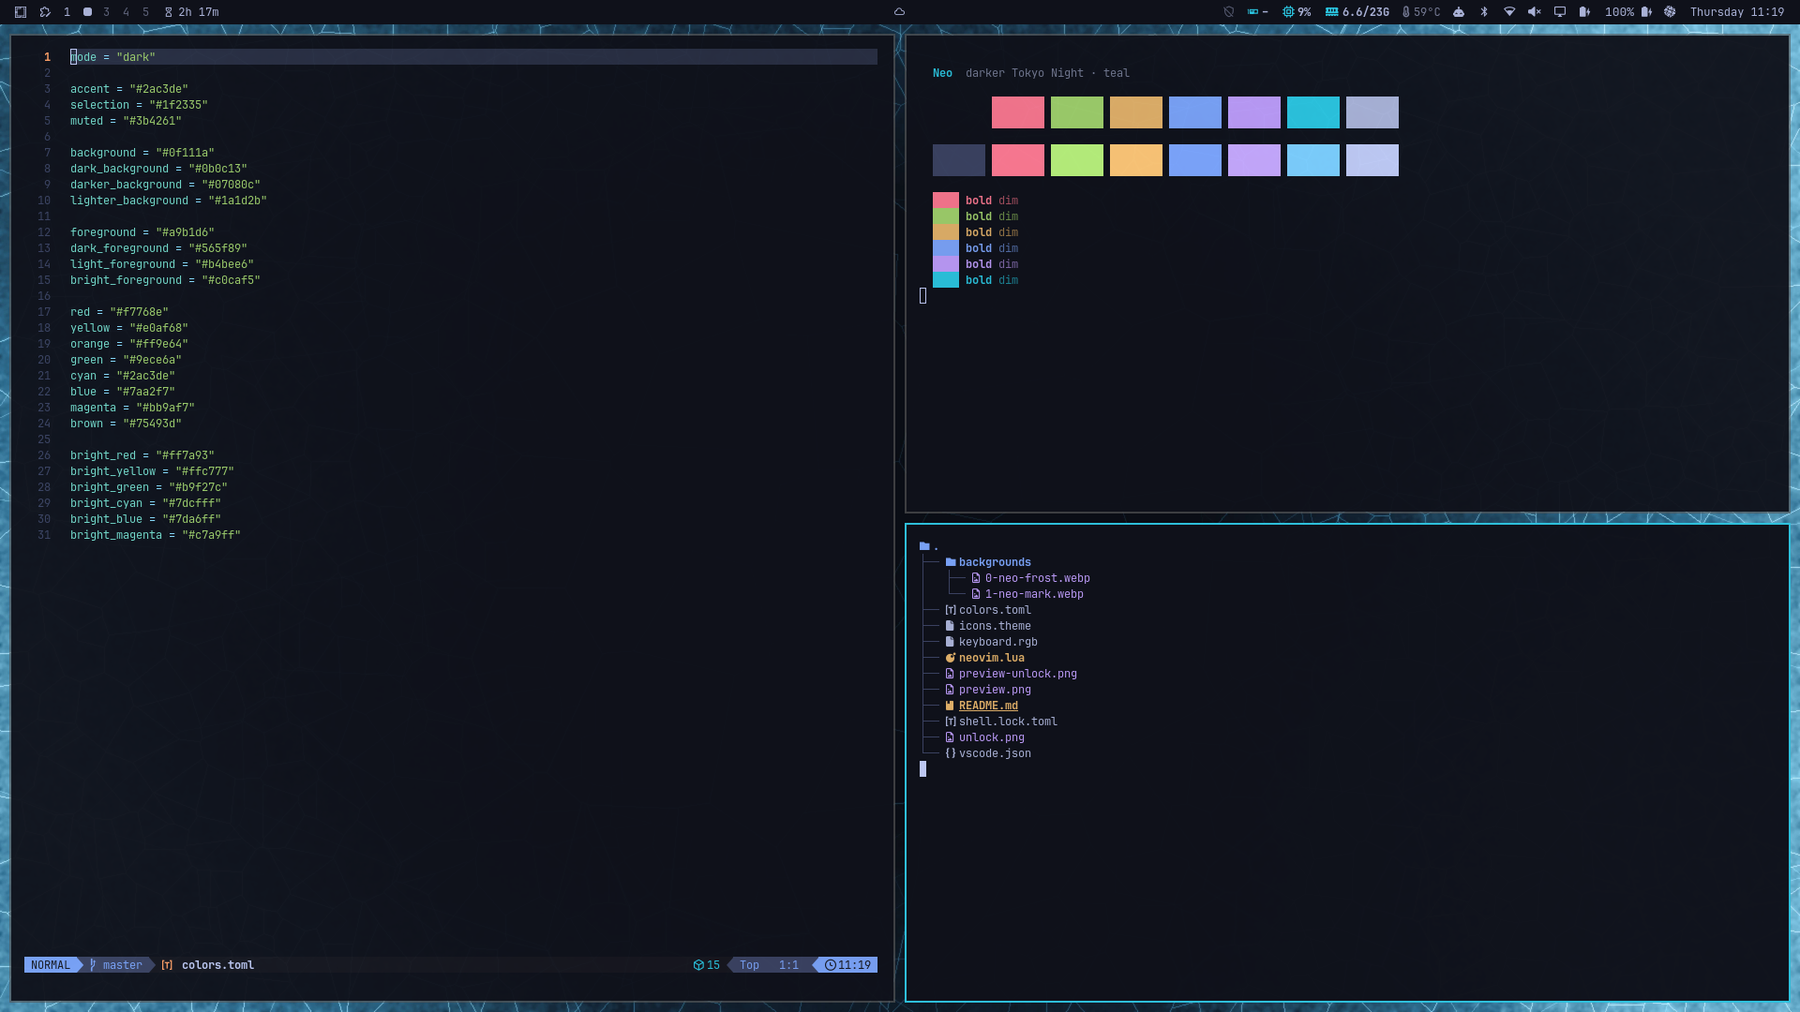
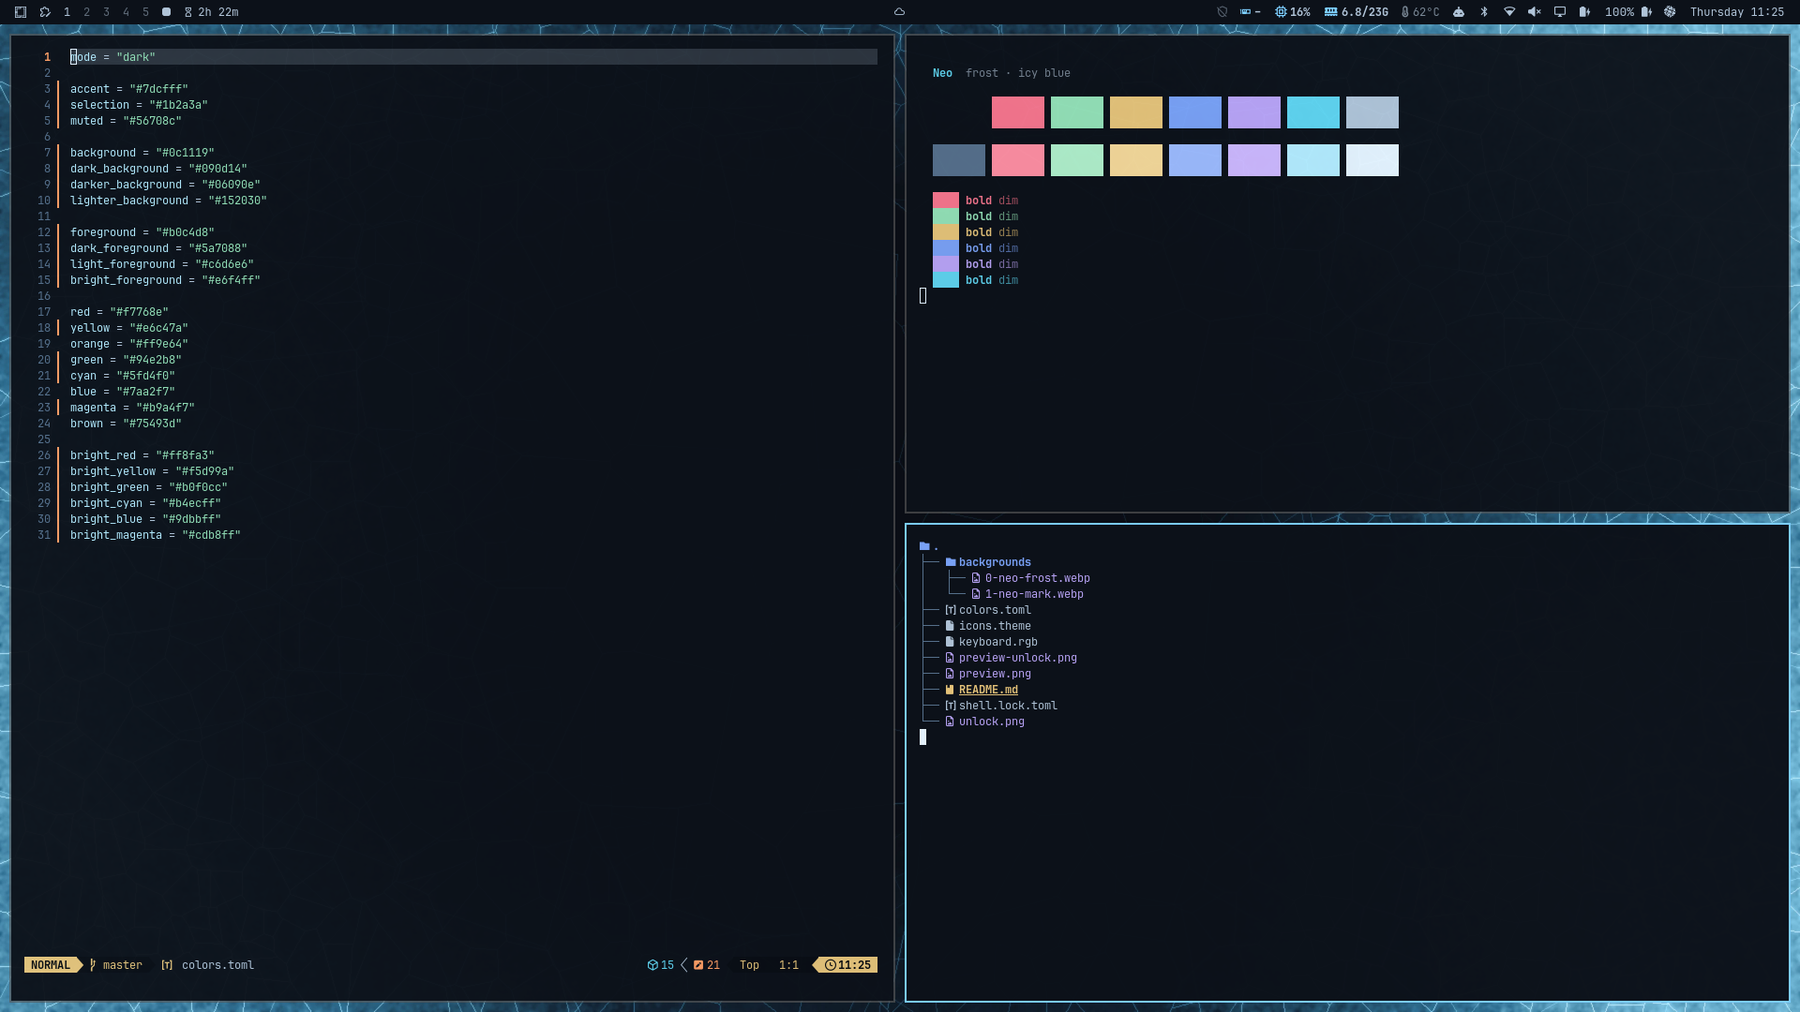
Colder frost palette; generate Neovim and VS Code themes from colors.toml

diff --git a/README.md b/README.md
@@ -1,6 +1,6 @@
 # Neo — Omarchy theme
 
-A darker take on Omarchy's default Tokyo Night, with a teal accent and a frosted-ice wallpaper.
+A frosty take on Omarchy's default Tokyo Night: blue-black backgrounds, icy blue accents, cool mint and lavender syntax colors, and a frosted-ice wallpaper.
 
 ![Neo desktop](preview.png)
 
@@ -16,14 +16,15 @@ Switch back to it any time with `omarchy theme set neo`.
 
 | Role | Color | | Role | Color |
 |---|---|---|---|---|
-| Background | `#0f111a` | | Accent / cyan | `#2ac3de` |
-| Dark background | `#0b0c13` | | Blue | `#7aa2f7` |
-| Lighter background | `#1a1d2b` | | Magenta | `#bb9af7` |
-| Selection | `#1f2335` | | Green | `#9ece6a` |
-| Foreground | `#a9b1d6` | | Yellow | `#e0af68` |
-| Bright foreground | `#c0caf5` | | Red | `#f7768e` |
+| Background | `#0c1119` | | Accent | `#7dcfff` |
+| Dark background | `#090d14` | | Cyan | `#5fd4f0` |
+| Lighter background | `#152030` | | Blue | `#7aa2f7` |
+| Selection | `#1b2a3a` | | Magenta | `#b9a4f7` |
+| Muted | `#56708c` | | Green | `#94e2b8` |
+| Foreground | `#b0c4d8` | | Yellow | `#e6c47a` |
+| Bright foreground | `#e6f4ff` | | Red | `#f7768e` |
 
-The full palette is in [`colors.toml`](colors.toml). Omarchy generates the terminal, Hyprland, btop and other app configs from it.
+The full palette is in [`colors.toml`](colors.toml). Omarchy generates everything else from it: terminals, Hyprland, btop, Neovim (through [aether.nvim](https://github.com/bjarneo/aether.nvim)) and a VS Code theme. The editors therefore match your terminal exactly.
 
 ## Wallpapers
 
@@ -40,6 +41,5 @@ This theme includes a teal version of the Omarchy logo for the disk-unlock scree
 
 ## Also themed
 
-- Icons: `Yaru-prussiangreen`
-- Keyboard backlight: `#2ac3de`
-- Neovim and VS Code: the Tokyo Night colorschemes (`tokyonight-night` in Neovim, `enkia.tokyo-night` in VS Code)
+- Icons: `Yaru-blue`
+- Keyboard backlight: `#7dcfff`
